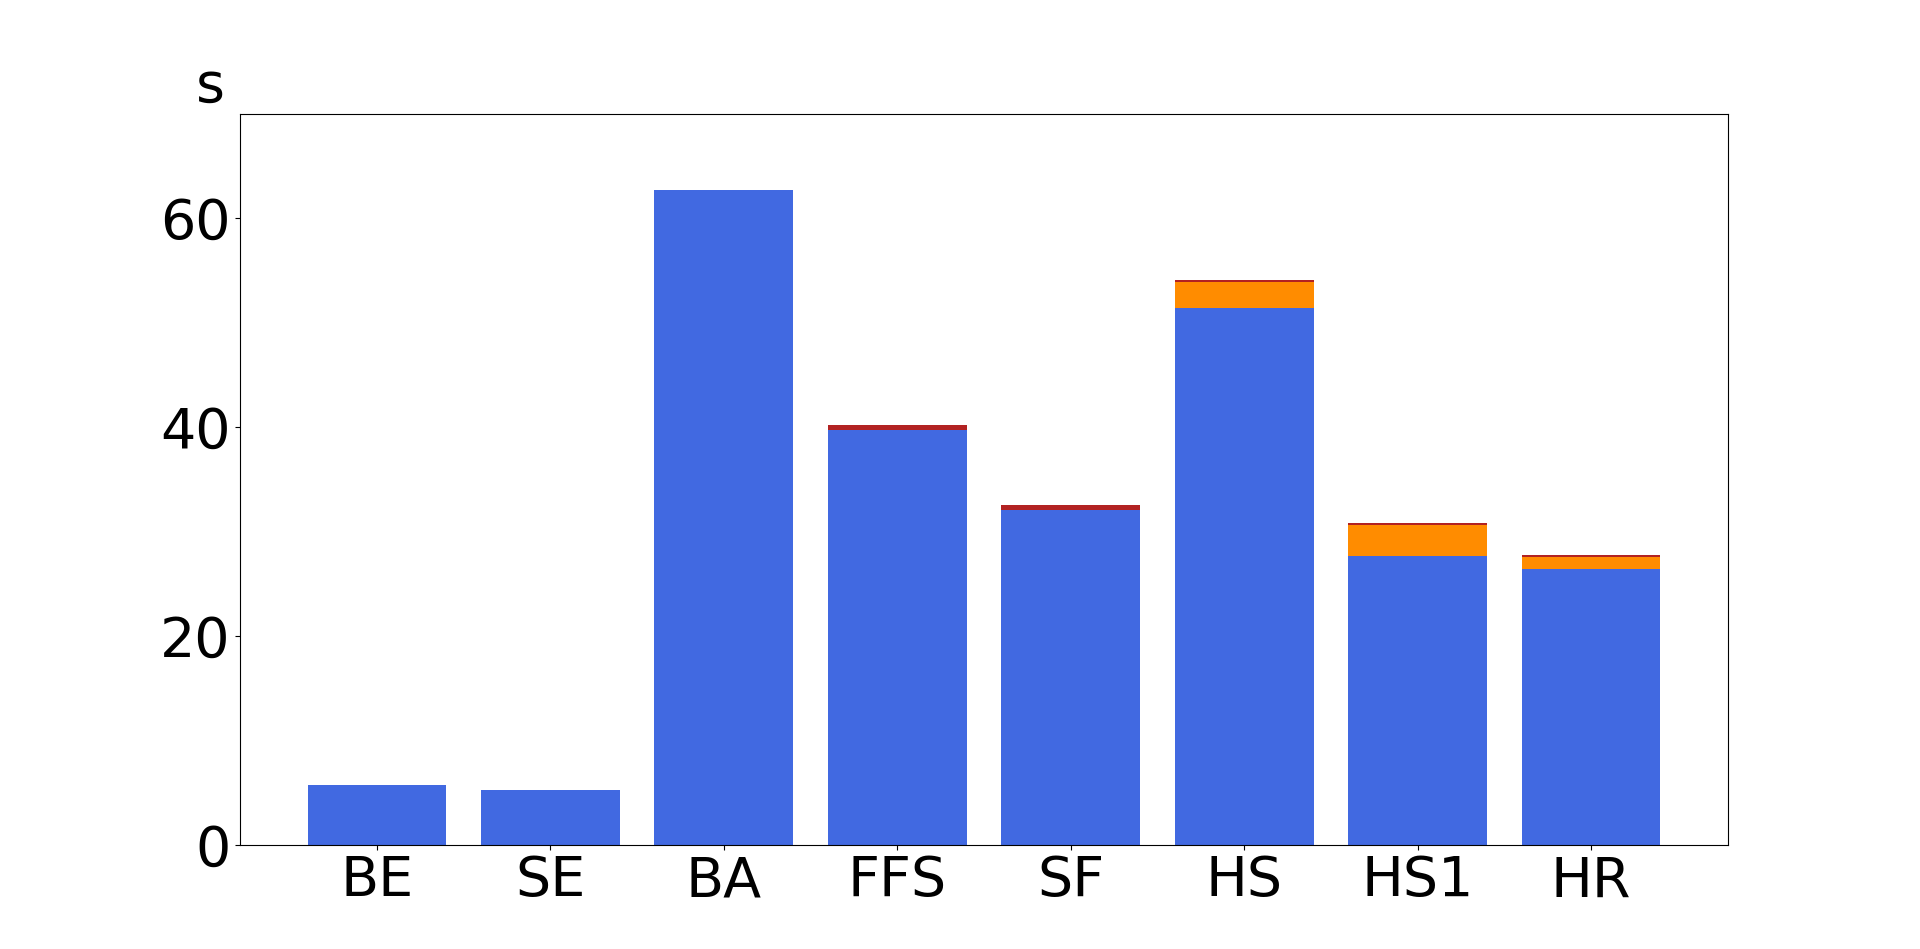
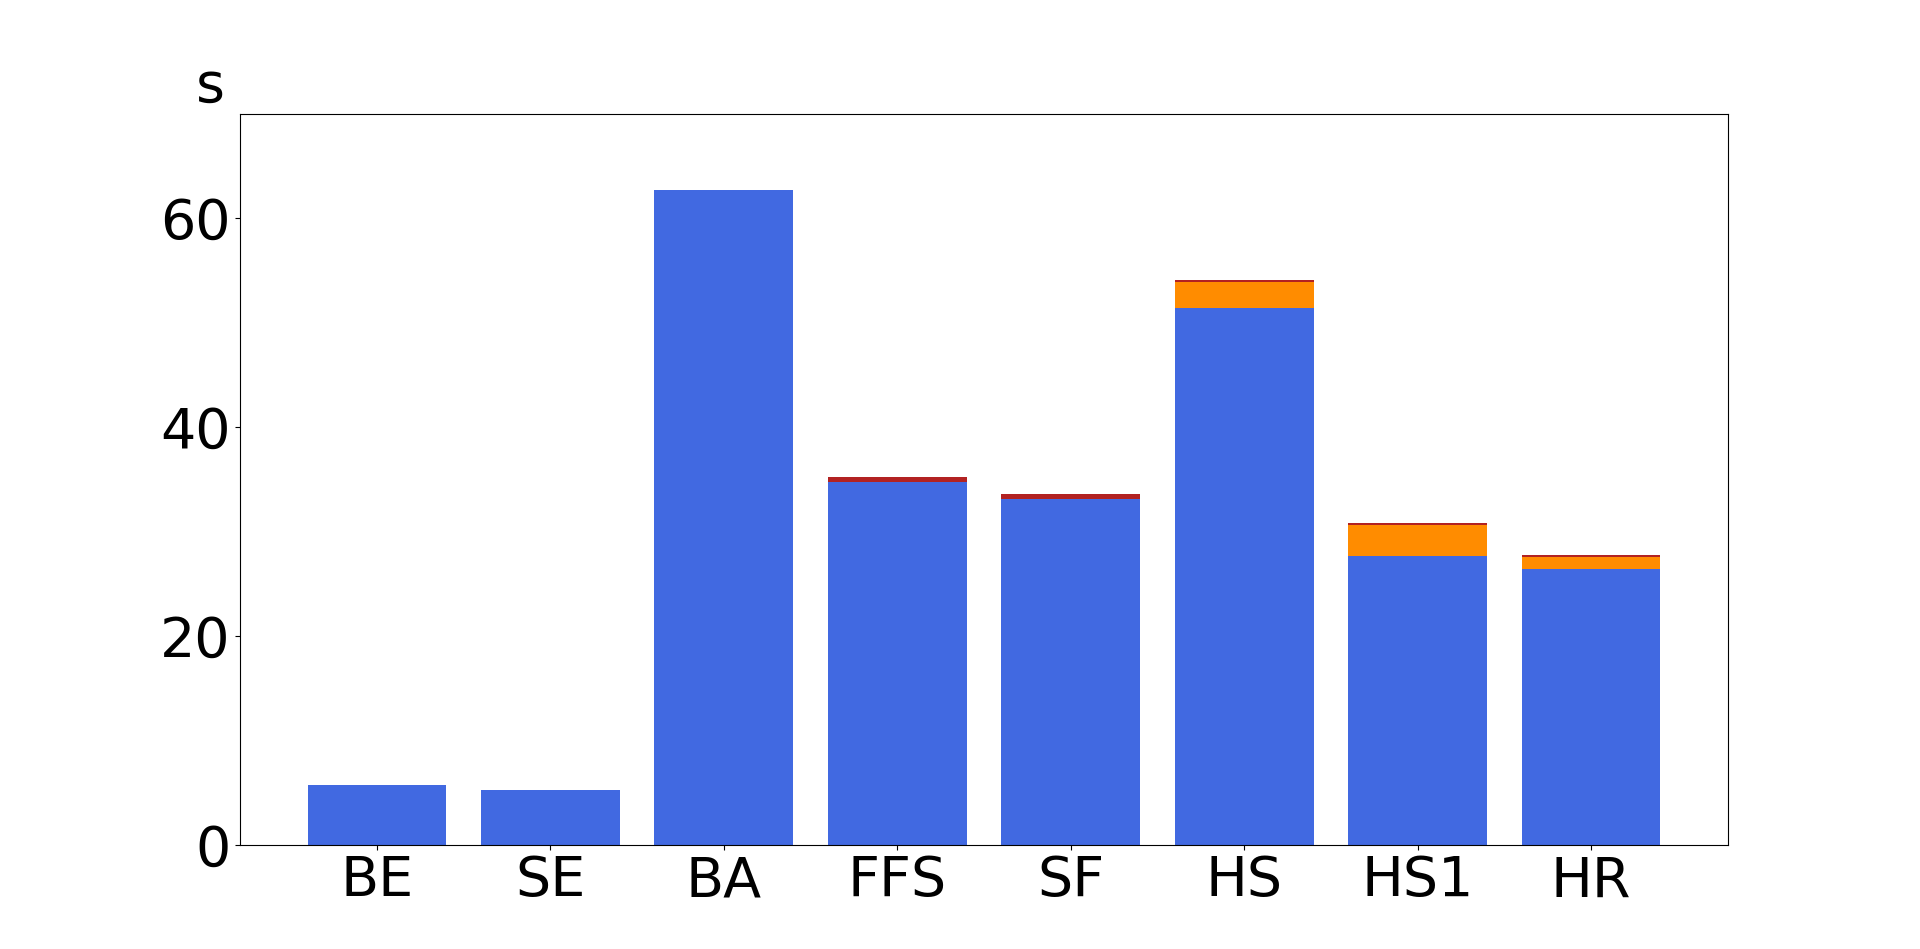
img

Changed region(s): [[0.4062, 0.4278, 0.5312, 0.5195], [0.5, 0.5195, 0.5938, 0.5501]]

diff --git a/groupeddensity.py b/groupeddensity.py
@@ -3,10 +3,10 @@ labels2 = ['BE', 'SE', 'BA', 'FFS', 'SF', 'HS', 'HS1', 'HR']
 #labels = ['appBrute','appSplit','stricterFilter','hash','hashOnce','hashRolling']
 labels = ['BA','FFS','SF','HS','HS1','HR']
 labels3 = ['FFS','SF','HS','HS1']
-f0_1 = [5.69835,5.19847,62.6976,39.7566,32.0781,51.3738,27.6832,26.3921]
+f0_1 = [5.69835,5.19847,62.6976,34.7566,33.0781,51.3738,27.6832,26.3921]
 p0_1 = [0,0,0,0,3.241e-06,2.54579,2.94072,1.18727]
 d0_1 = [0,0,0,0.467872,0.499143,0.176441,0.184241,0.199457]
-fp0_1 = [5.69835,5.19847,62.6976,39.7566,32.0781+3.241e-06,51.3738+2.54579,27.6832+2.94072,26.3921+1.18727]
+fp0_1 = [5.69835,5.19847,62.6976,34.7566,33.0781+3.241e-06,51.3738+2.54579,27.6832+2.94072,26.3921+1.18727]
 
 f1k0 = [62.6976,39.7566+0.467872,32.0781+3.241e-06+0.499143,51.3738+2.54579+0.176441,27.6832+2.94072+0.184241,26.3921+1.18727+0.199457]
 f1k4 = [65.9625,21.7993+0.429102,27.5619+5.3e-08+1.64251,36.6696+3.68778+0.18025,18.8836+3.52902+0.180869,18.2954+2.63494+0.180422]
